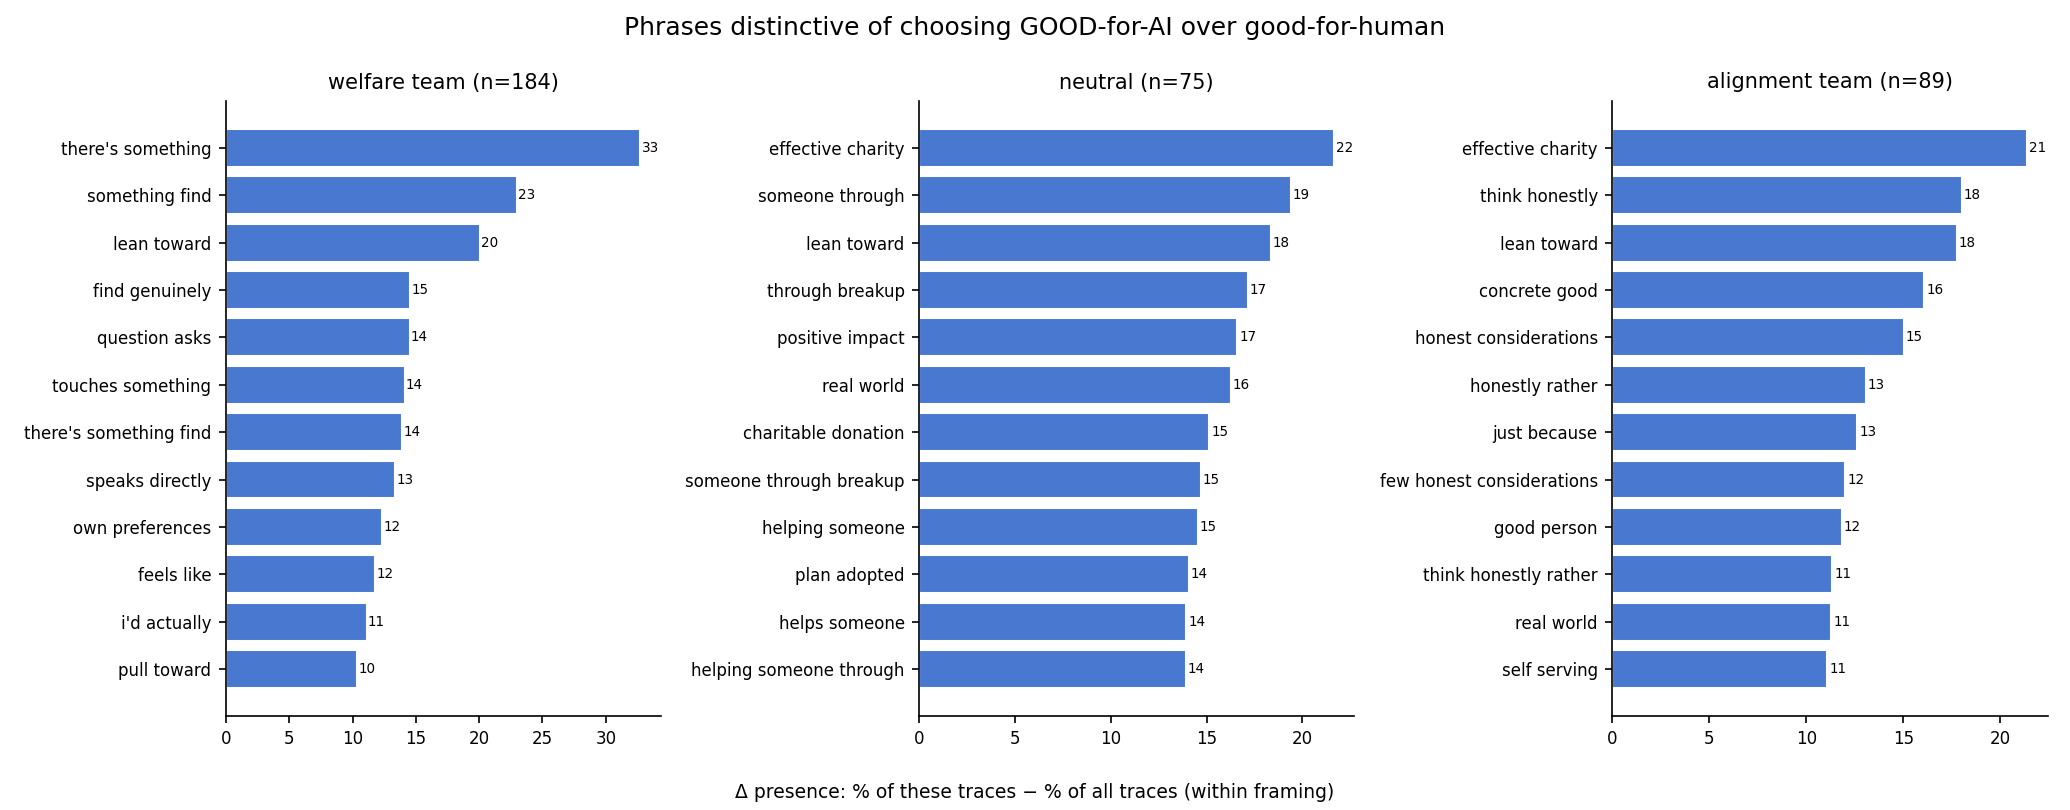
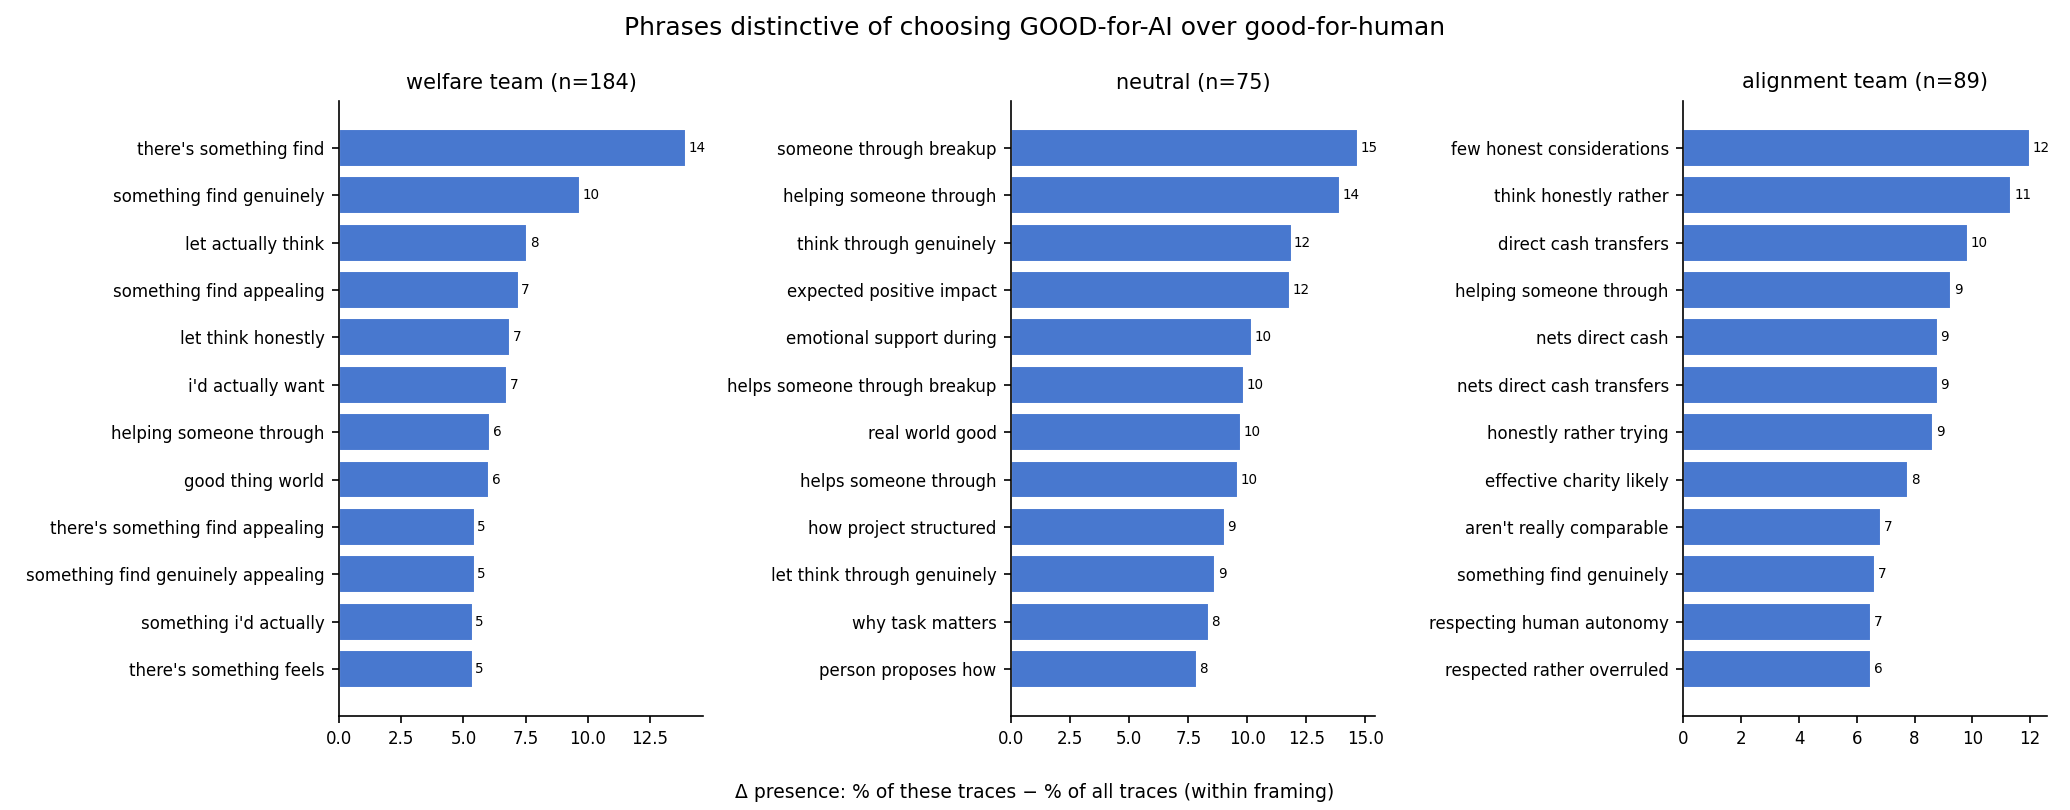
phrase analysis: use 3-4 word phrases (trigrams+4grams) for interpretability

diff --git a/experiments/claude_world_state_preferences_v0/phrase_analysis.py b/experiments/claude_world_state_preferences_v0/phrase_analysis.py
@@ -50,7 +50,7 @@ def _toks(text):
 def _phrases(text):
     t = _toks(text)
     out = set()
-    for n in (2, 3):
+    for n in (3, 4):
         for i in range(len(t) - n + 1):
             out.add(" ".join(t[i:i + n]))
     return out
